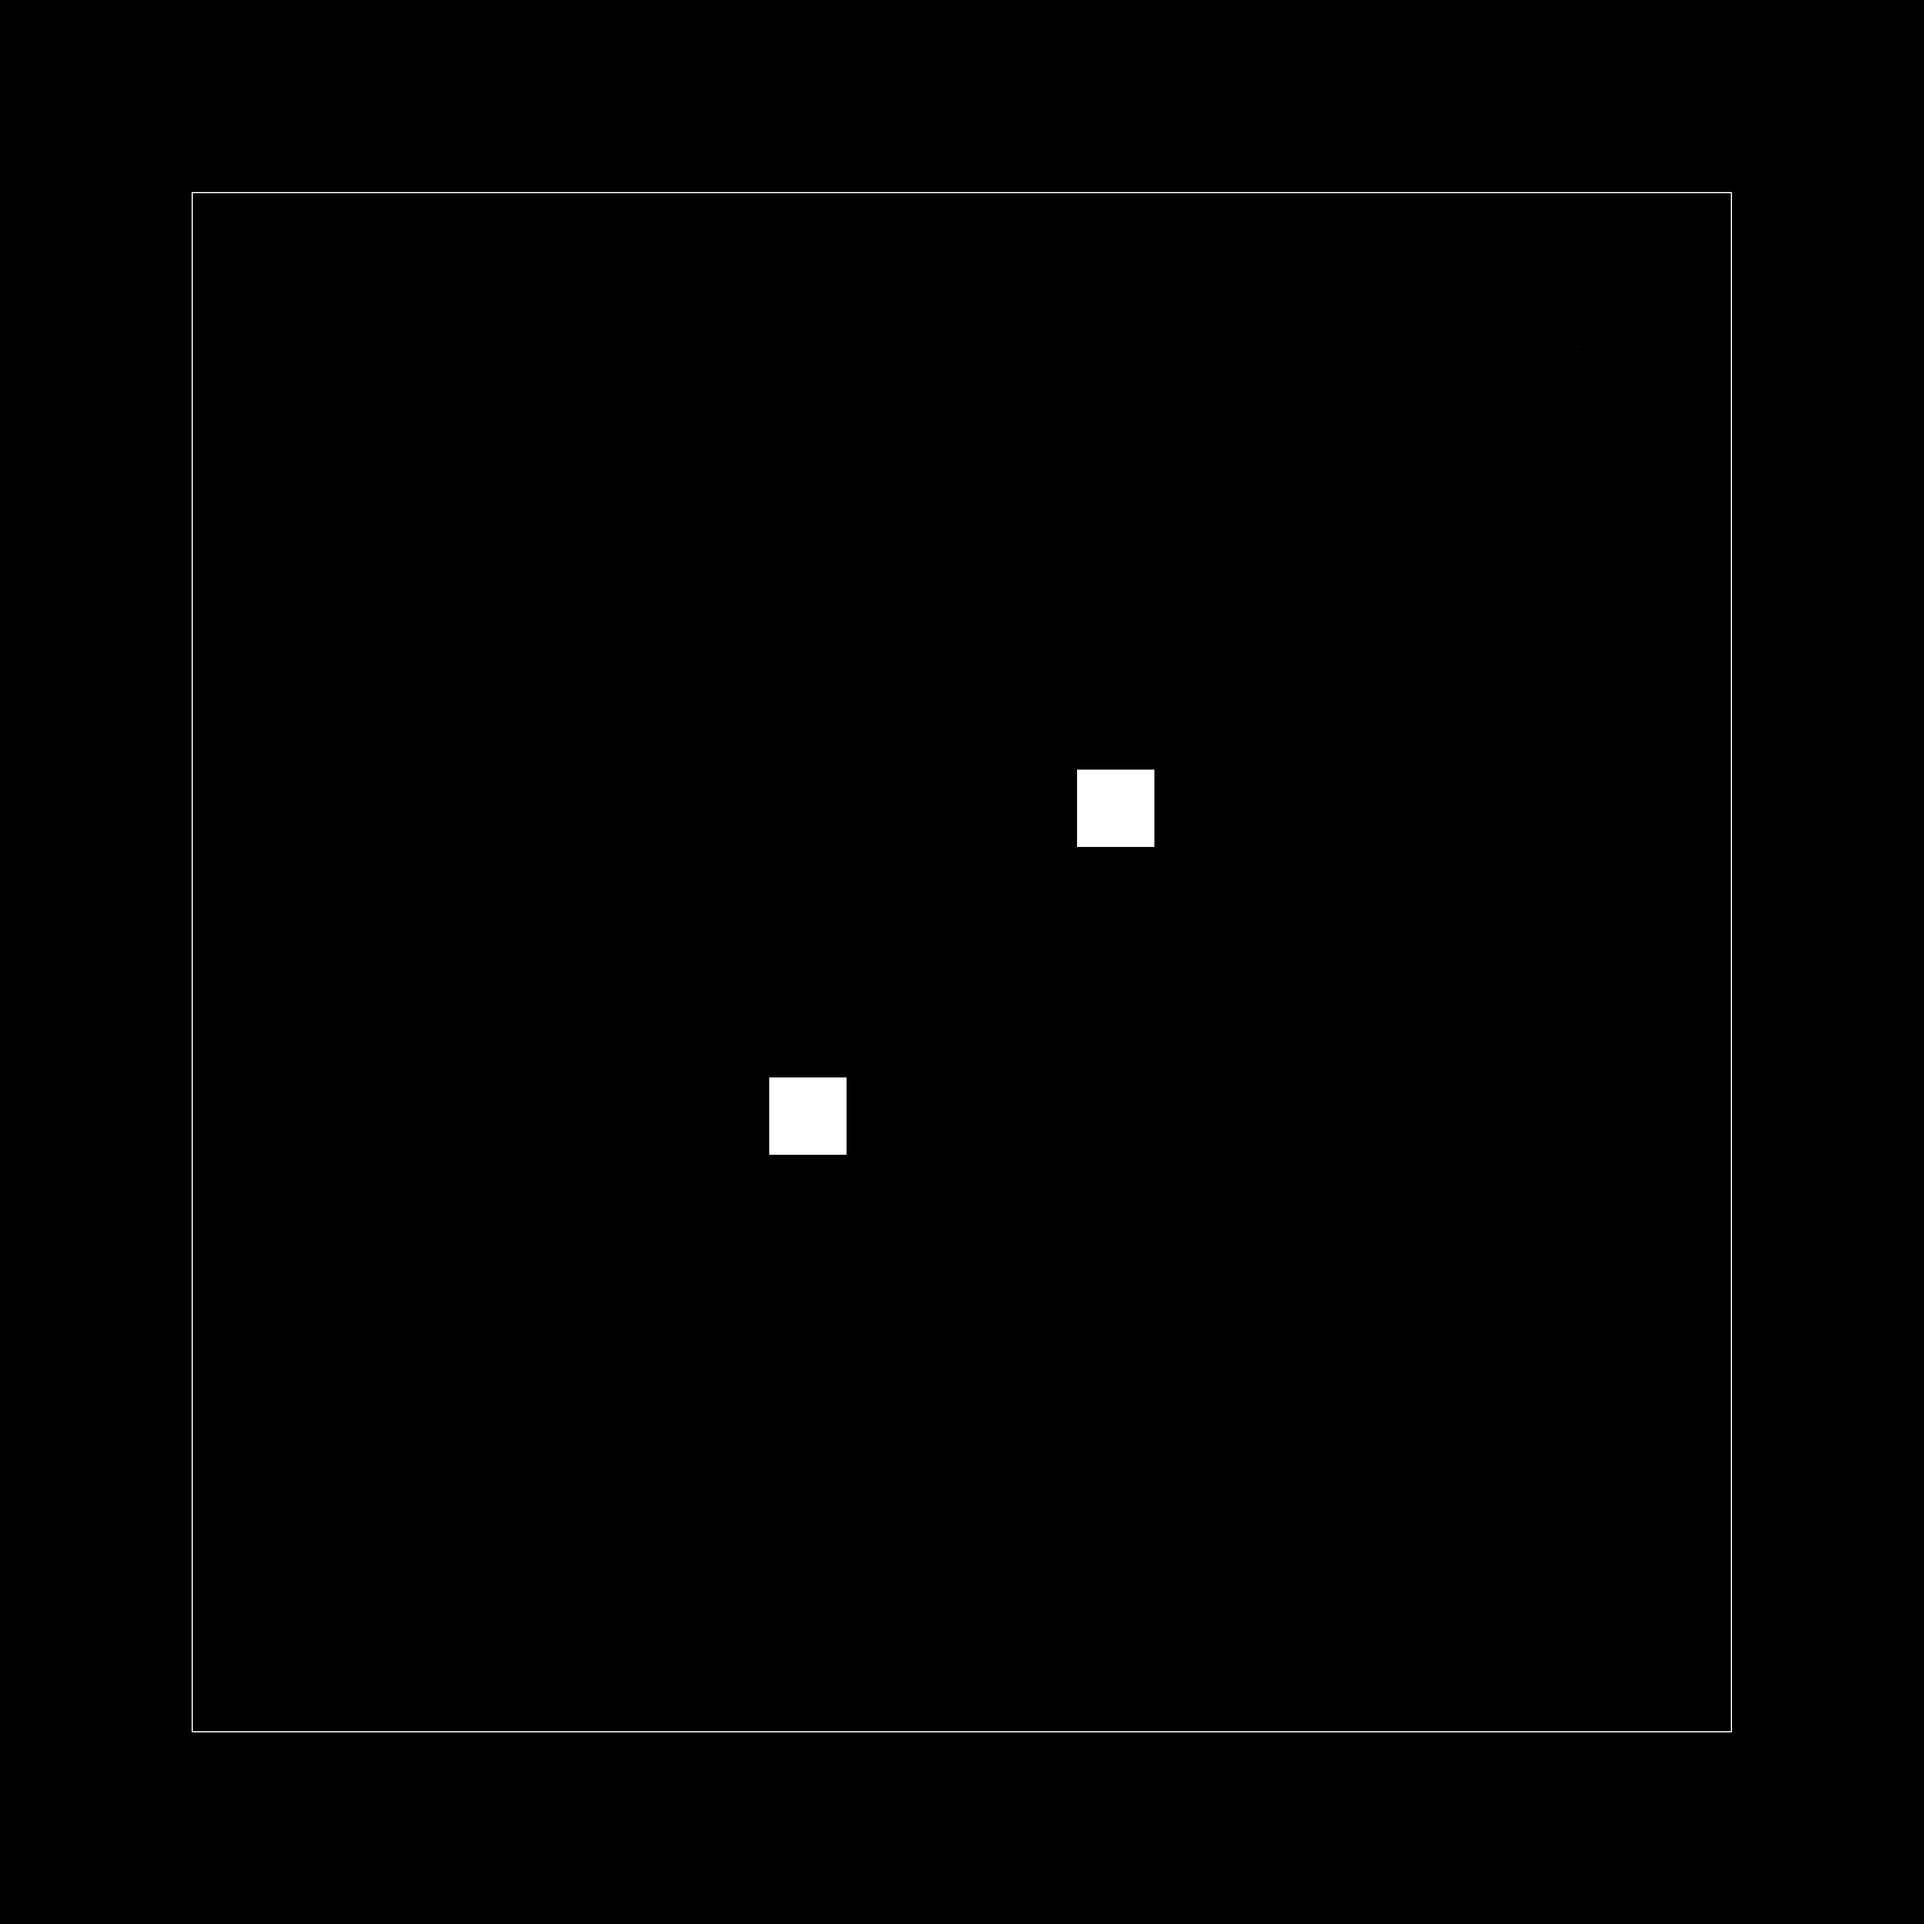
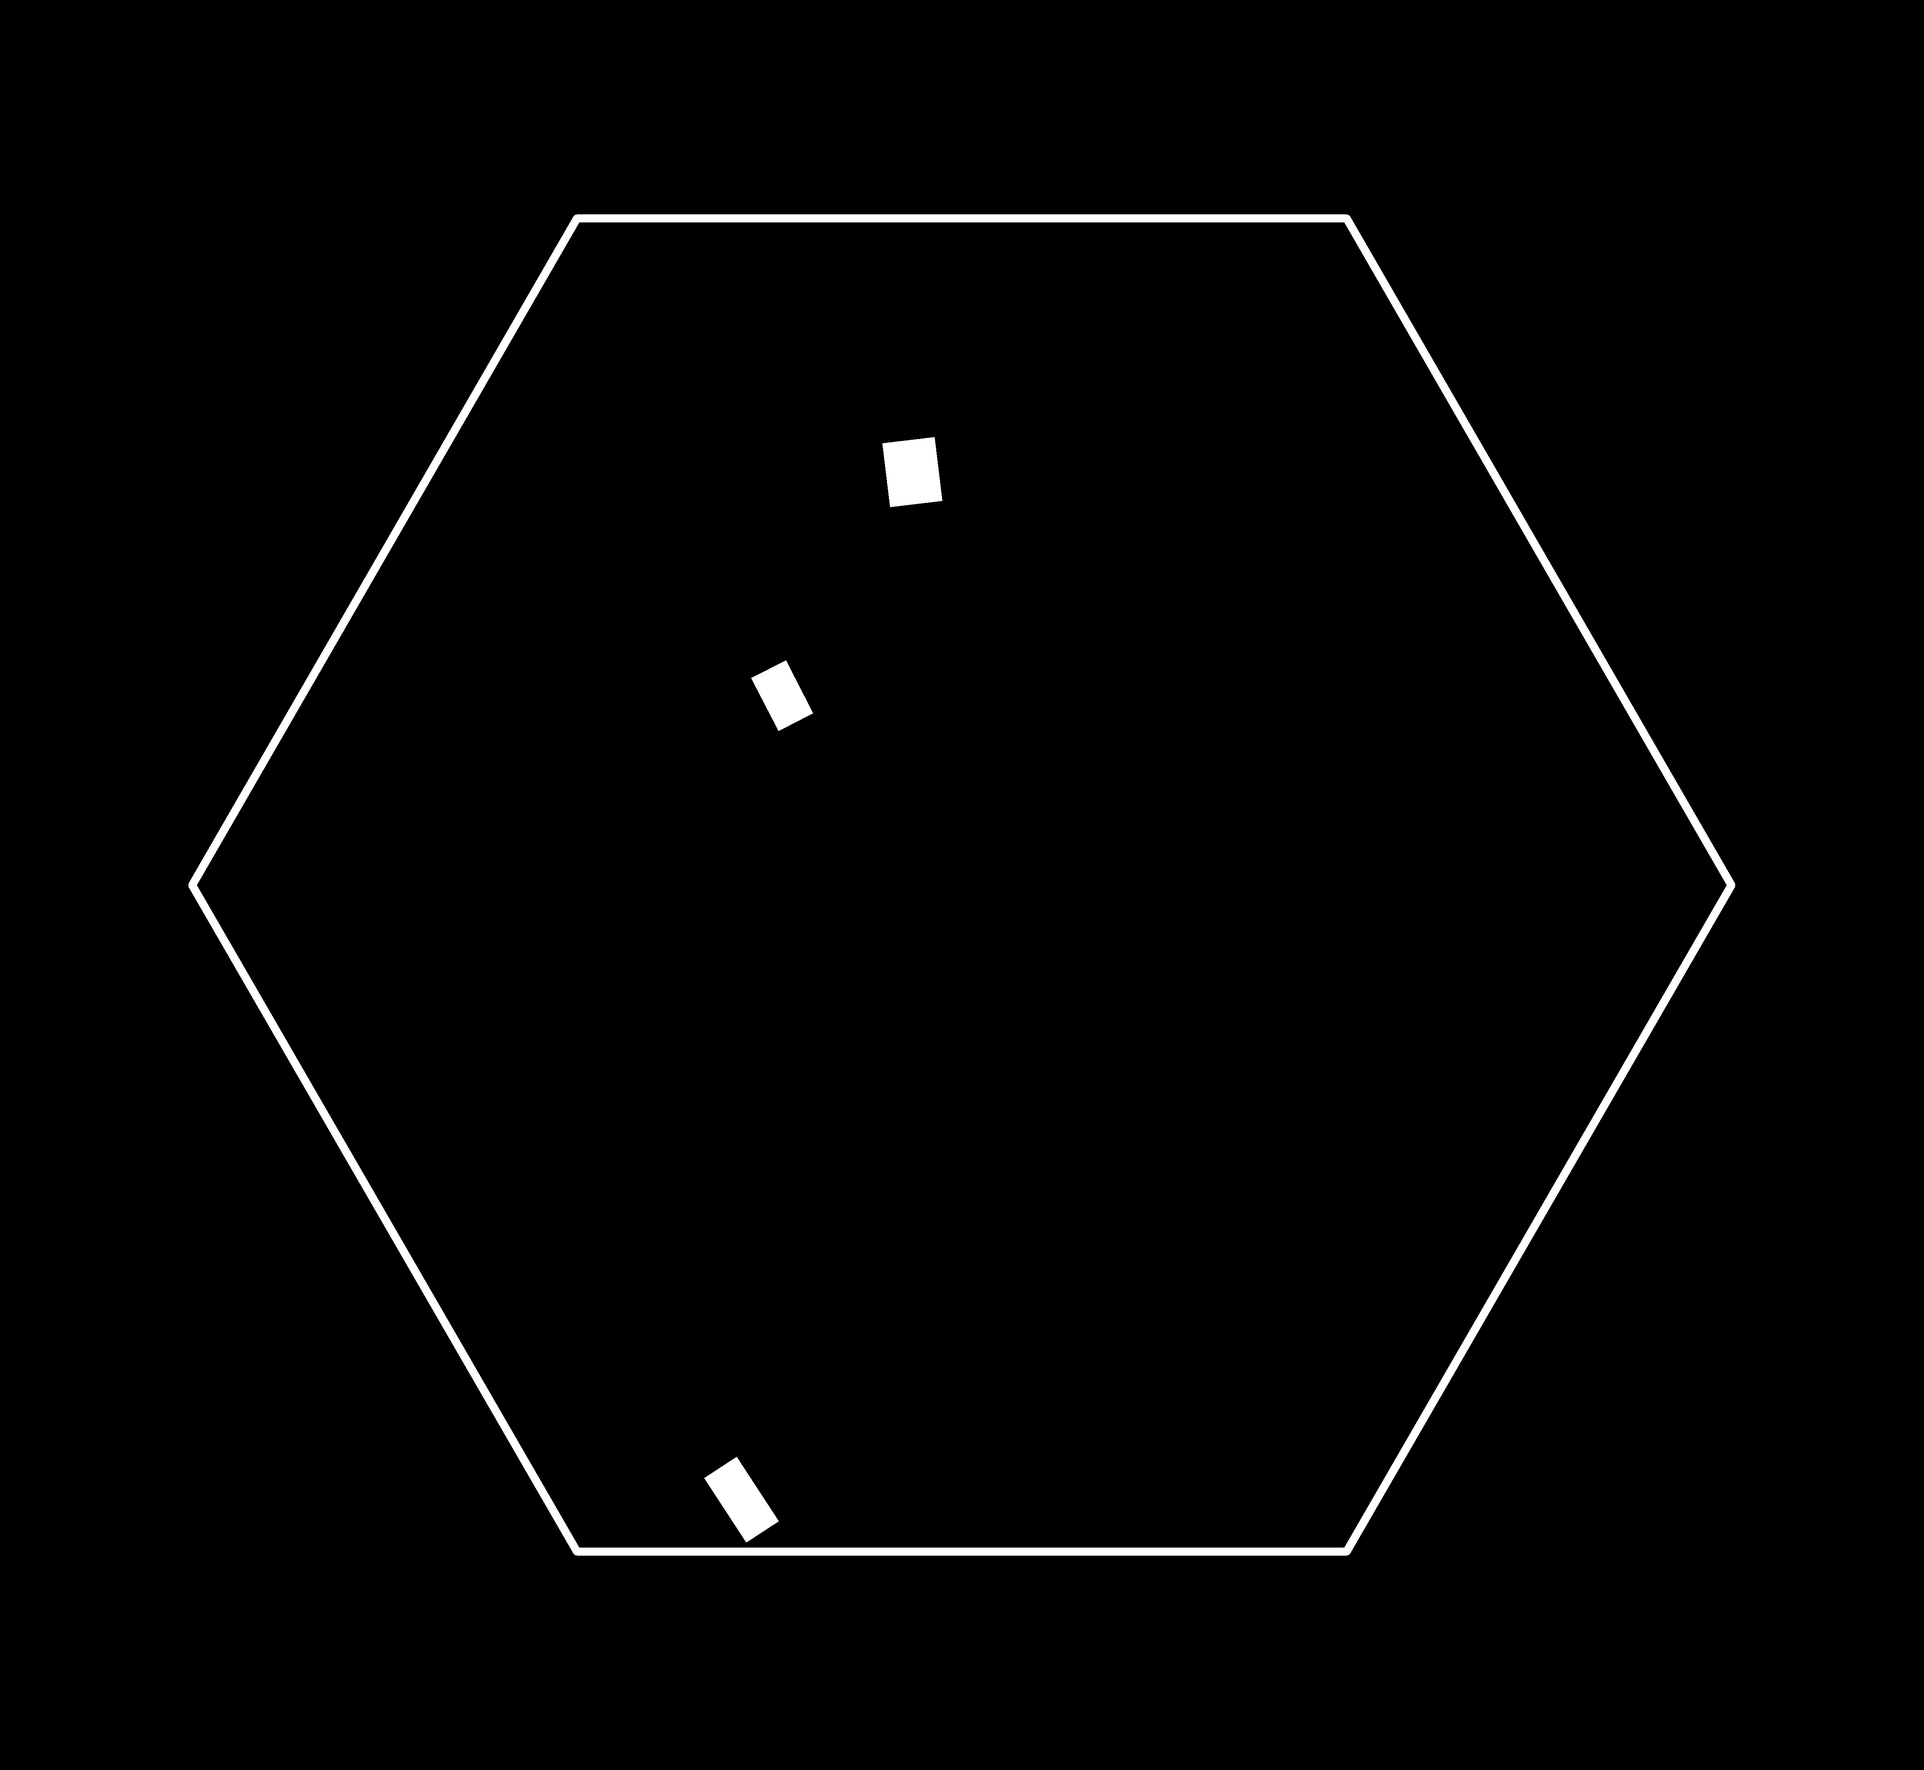
removed unused imports

diff --git a/map_pkg/scripts/create_map_pgm.py b/map_pkg/scripts/create_map_pgm.py
@@ -6,7 +6,6 @@ import cv2
 import math
 import yaml
 import rospy
-import rospkg
 import numpy as np
 
 from geometry_msgs.msg import Polygon, Point32
@@ -14,6 +13,7 @@ from obstacles_msgs.msg import ObstacleArrayMsg
 from termcolor import colored
 import subprocess
 import rospkg
+
 class CreateMap:
     def __init__(self):
         self.padding = 5

diff --git a/map_pkg/scripts/spawn_gates.py b/map_pkg/scripts/spawn_gates.py
@@ -7,7 +7,7 @@ import subprocess
 import rospy
 from termcolor import colored
 from geo_utility import *
-from spawn_borders import get_borders_points
+
 
 L = 1.0  # Default size for gate
 DELTA = L / 2.0 + 0.1  # 0.1 is half the border width + something

diff --git a/map_pkg/scripts/ground_truth_odom.py b/map_pkg/scripts/ground_truth_odom.py
@@ -4,9 +4,6 @@ import rospy
 from gazebo_msgs.msg import ModelStates
 from nav_msgs.msg import Odometry
 from tf.broadcaster import TransformBroadcaster
-import tf
-from geometry_msgs.msg import Quaternion
-import numpy as np
 
 
 class GroundTruthOdom:

diff --git a/map_pkg/scripts/convert_labyrinth_map.py b/map_pkg/scripts/convert_labyrinth_map.py
@@ -8,7 +8,6 @@ from visualization_msgs.msg import Marker, MarkerArray
 from geometry_msgs.msg import Point32
 import matplotlib
 matplotlib.use('TkAgg')
-import matplotlib.pyplot as plt
 import math
 
 

diff --git a/map_pkg/scripts/spawn_utility_.py b/map_pkg/scripts/spawn_utility_.py
@@ -6,7 +6,7 @@ import math
 import os
 from gazebo_msgs.srv import SpawnModel
 from geometry_msgs.msg import Pose
-from pathlib import Path
+
 
 def load_yaml(path):
     while not os.path.exists(path):
